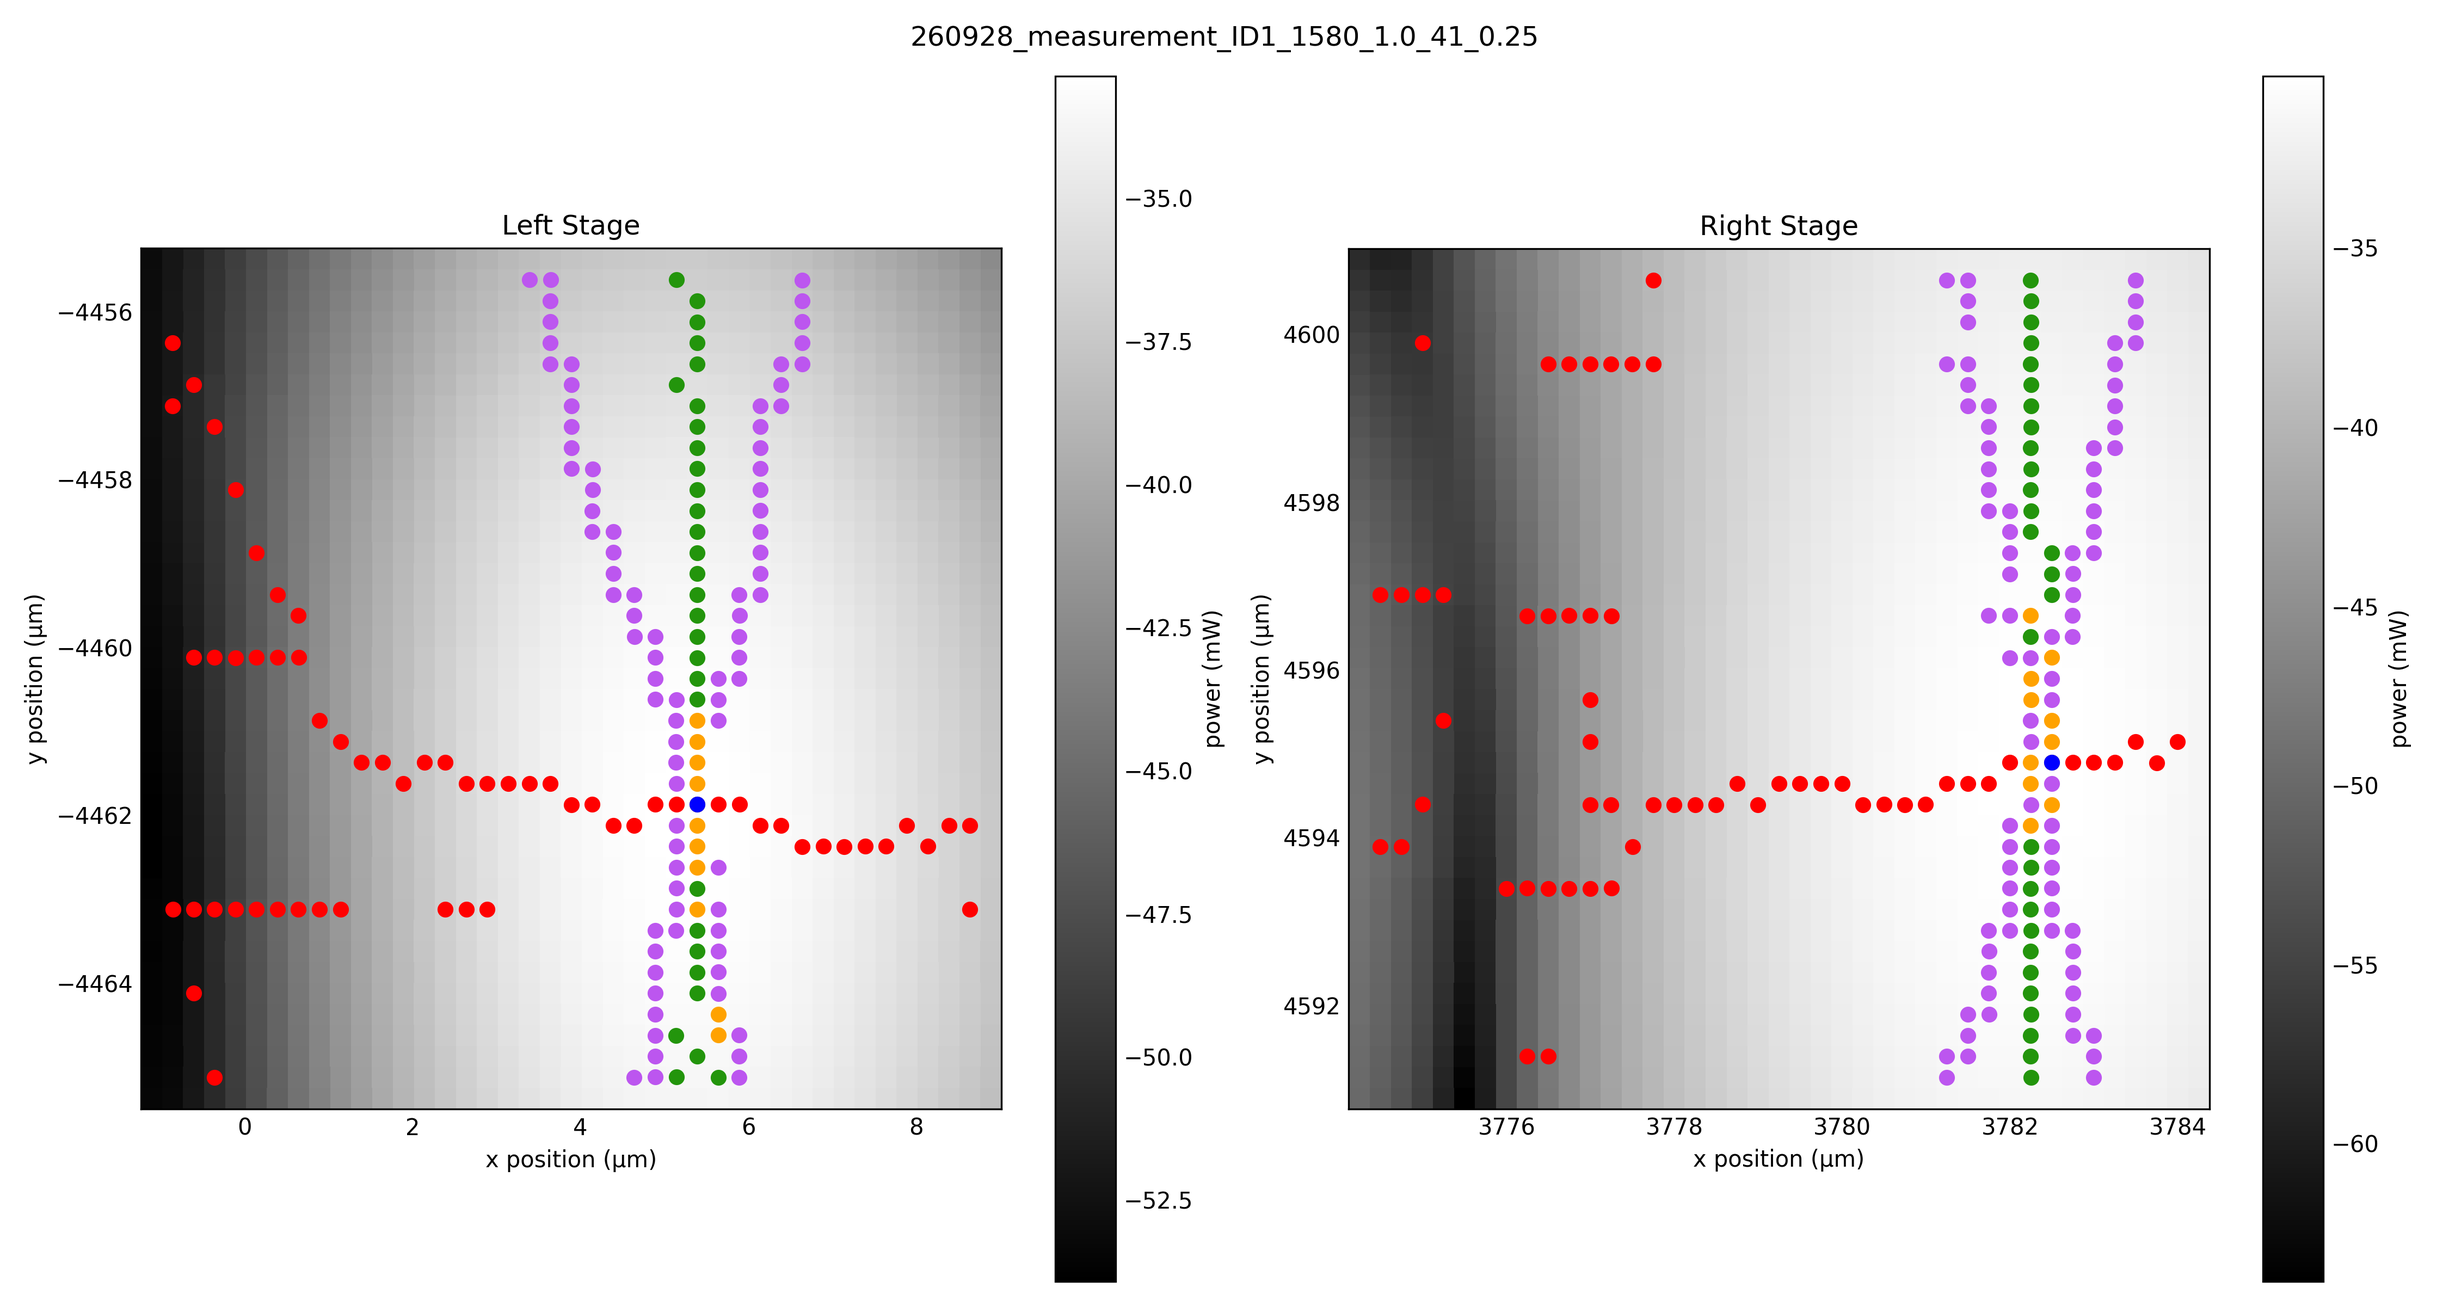
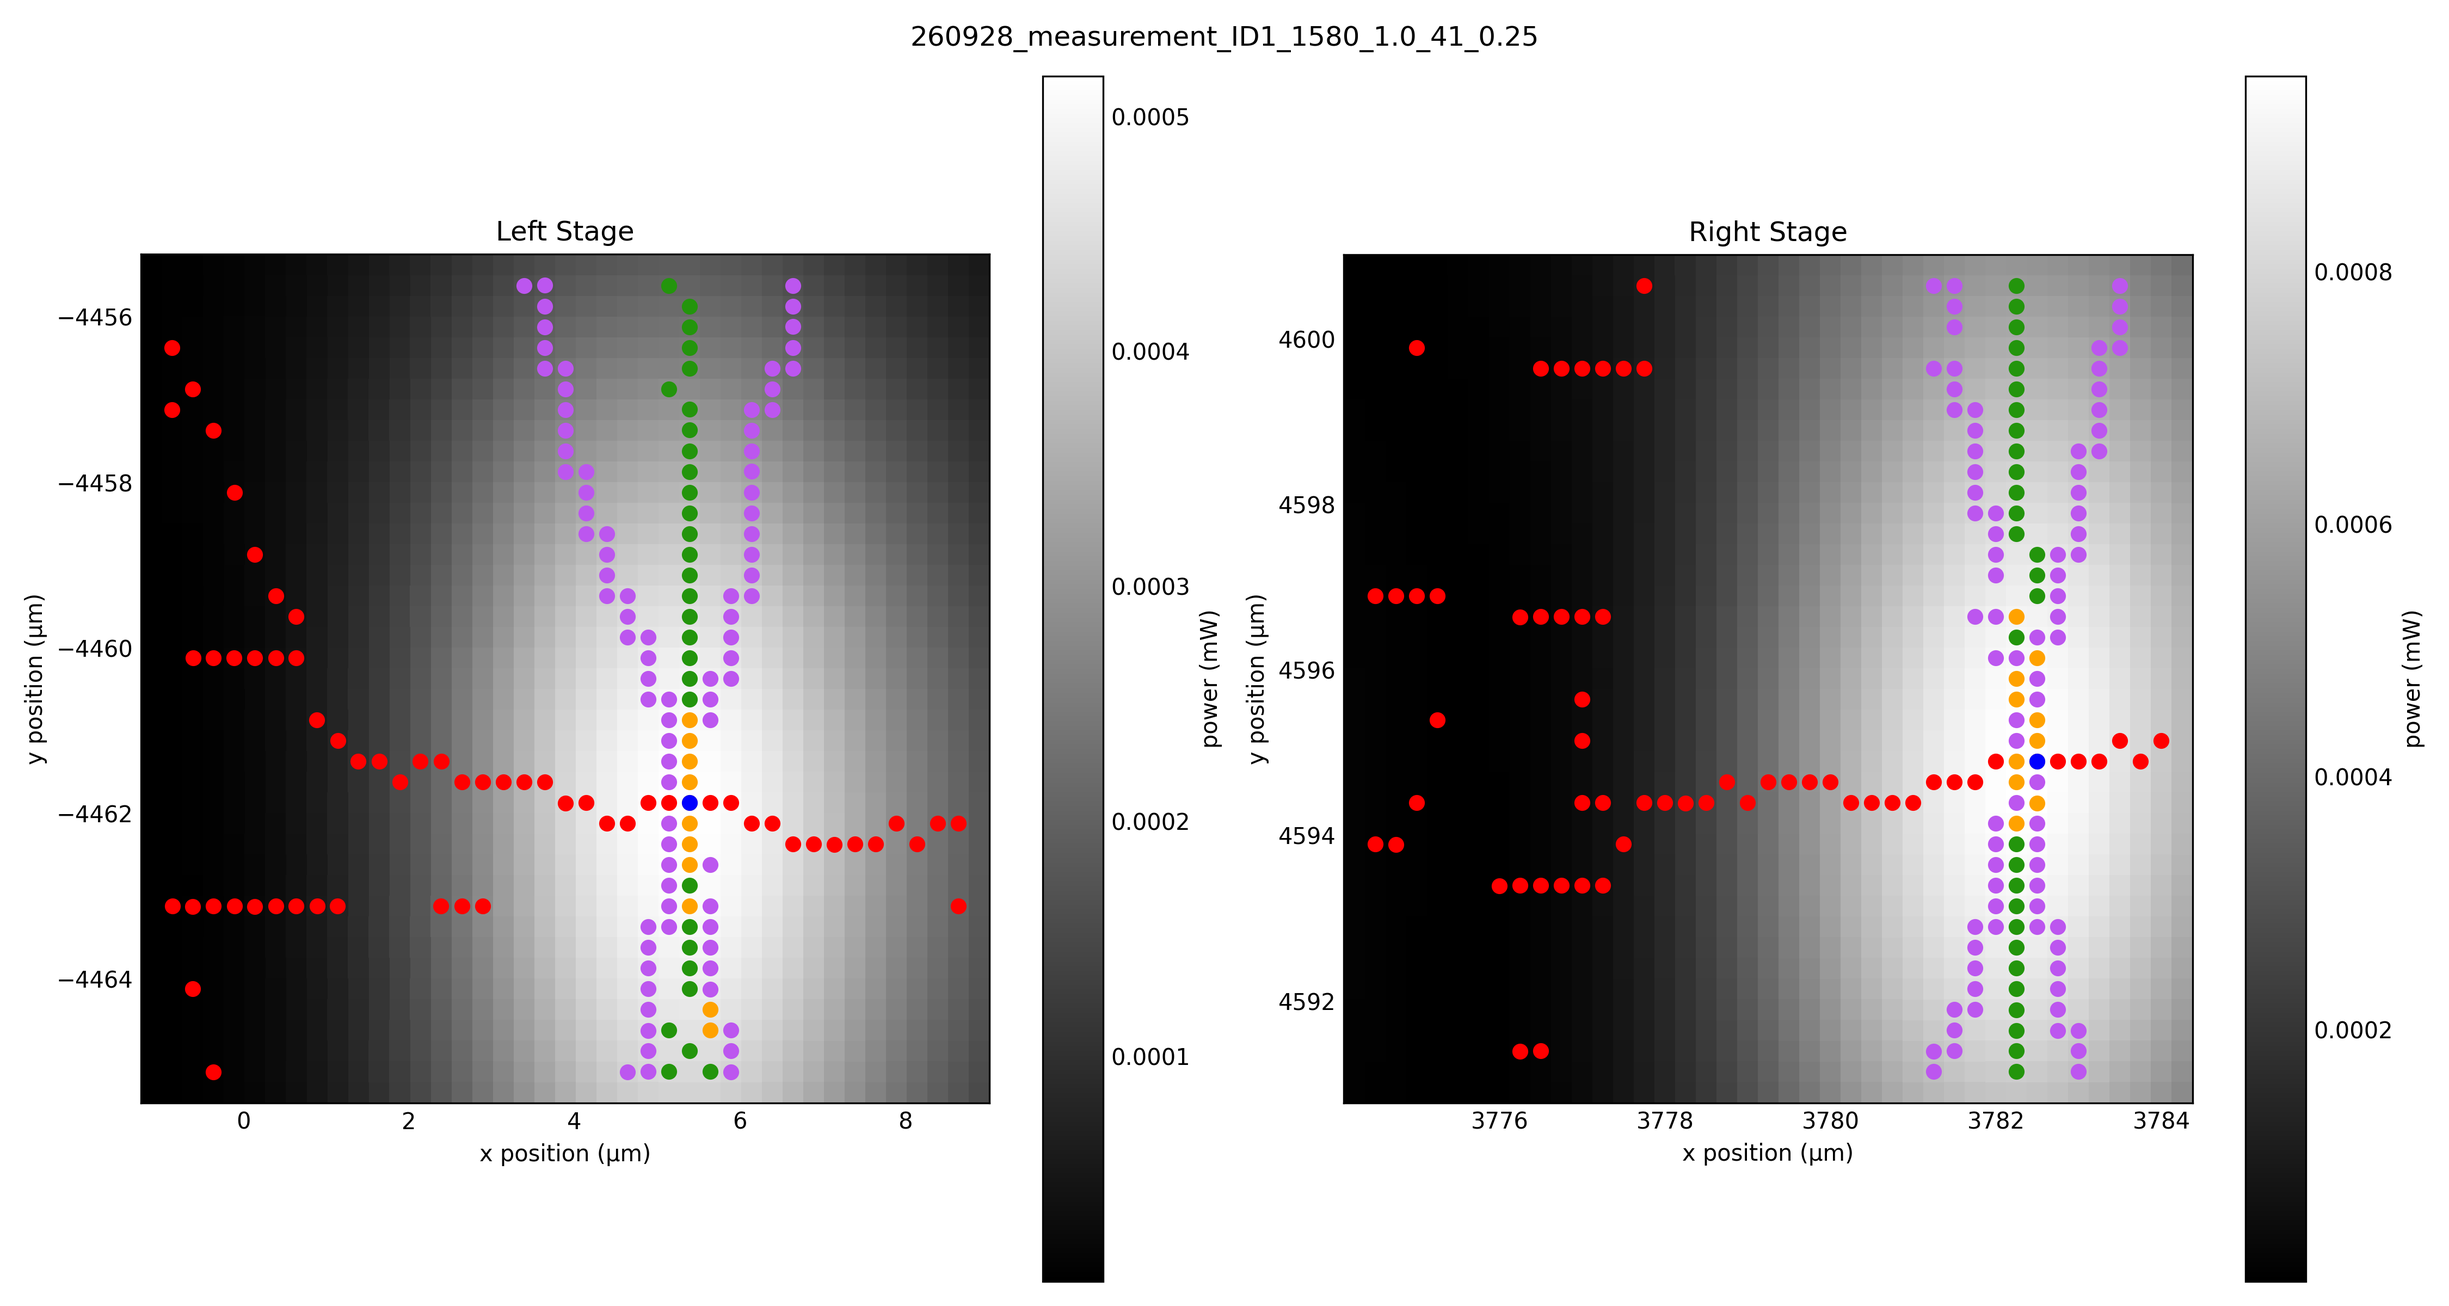
code readthrough and clean up readied for presentation

diff --git a/LabExT/Dev_Linus/_2_int_graphical_data_interpretation.py b/LabExT/Dev_Linus/_2_int_graphical_data_interpretation.py
@@ -1,4 +1,3 @@
-import time
 import csv
 import re
 
@@ -6,90 +5,47 @@ import matplotlib.pyplot as plt
 import numpy as np
 from pathlib import Path
 
-def data_preparation(number_of_points, used_array):
+def csv_to_arrays(file_name):
+    program_folder = Path(__file__).resolve().parent
+
+    parameter_list = []
+    left_list = []
+    right_list = []
+
+    csv_file = program_folder / f'{file_name}.csv'
+
+    with open(csv_file, newline='') as csvfile:
+        data = list(csv.reader(csvfile, delimiter=','))
+        for i in range(len(data)):
+            if i <= 1:
+                parameter_list.append(data[i])
+            elif data[i][0]== 'left':
+                left_list.append([float(v) for v in data[i][1:]])
+            else:
+                right_list.append([float(v) for v in data[i][1:]])
+
+    left_array = np.asarray(left_list, dtype=np.float32)
+    right_array = np.asarray(right_list, dtype=np.float32)
+
+    match = re.search(r'grid dimension:(\d+)', parameter_list[0][2])
+    N = int(match.group(1))
+
+    XL,YL,ZL = csv_to_arrays_helper(left_array, N)
+    XR,YR,ZR = csv_to_arrays_helper(right_array, N)
+    
+
+    return N, XL, YL, ZL, XR, YR, ZR
+
+def csv_to_arrays_helper(used_array, number_of_points):
     X = used_array[:, 0].reshape(number_of_points,number_of_points)
     Y = used_array[:, 1].reshape(number_of_points,number_of_points)
     Z = used_array[:, 2].reshape(number_of_points,number_of_points)
-    Z = 10 ** (Z / 10)
+    Z = 10**(Z / 10) # dBm -> mW
 
     return X,Y,Z
 
-def plot_data(number_of_points,first_array,second_array, tol, slice_along=None, slice_idx=None):
-    plt.style.use('_mpl-gallery')
-
-    XL,YL,ZL = data_preparation(number_of_points, first_array)
-    XR,YR,ZR = data_preparation(number_of_points, second_array)
-    
-    # Plot the surface
-    fig, (ax_left, ax_right) = plt.subplots(1, 2, subplot_kw={"projection": "3d"}, figsize=(15, 8))
-
-    ax_left.plot_surface(XL,YL,ZL,cmap="Oranges",alpha=0.6)
-    ax_right.plot_surface(XR,YR,ZR,cmap="Oranges",alpha=0.6)
-
-    
-    ax_left.set_xlabel('x position (µm)')
-    ax_left.set_ylabel('y position (µm)')
-    ax_left.set_zlabel('power (mW)')
-    ax_left.set_title('Left Stage')
-
-    ax_right.set_xlabel('x position (µm)')
-    ax_right.set_ylabel('y position (µm)')
-    ax_right.set_zlabel('power (mW)')
-    ax_right.set_title('Right Stage')
-
-    ridge_and_max(XL,YL,ZL,number_of_points,ax_left,'3D', tol)
-    ridge_and_max(XR,YR,ZR,number_of_points,ax_right,'3D', tol)
-
-    #if slice_along is not None and slice_idx is not None:
-    #    add_slice_plane(ax_left, XL, YL, ZL, slice_along, slice_idx)
-    #    add_slice_plane(ax_right, XR, YR, ZR, slice_along, slice_idx)
-
-    fig.suptitle(f"{file_name}")
-
-    plt.show()
-
-def plot_data_heatmap(number_of_points, first_array, second_array, file_name, program_folder, data_showing, tol):
-    plt.style.use('_mpl-gallery')
-
-    XL,YL,ZL = data_preparation(number_of_points, first_array)
-    XR,YR,ZR = data_preparation(number_of_points, second_array)
-    
-    # Plot the surface
-    fig, (ax_left, ax_right) = plt.subplots(1, 2, figsize=(15, 8))
-
-
-    mesh_left = ax_left.pcolormesh(XL,YL,ZL,cmap="grey", shading='auto')
-    mesh_right = ax_right.pcolormesh(XR,YR,ZR,cmap="grey", shading='auto')
-
-    
-    ax_left.set_xlabel('x position (µm)')
-    ax_left.set_ylabel('y position (µm)')
-    ax_left.set_title('Left Stage')
-    ax_left.set_aspect('equal')
-    fig.colorbar(mesh_left, ax=ax_left, label='power (mW)')
-
-    ax_right.set_xlabel('x position (µm)')
-    ax_right.set_ylabel('y position (µm)')
-    ax_right.set_title('Right Stage')
-    ax_right.set_aspect('equal')
-    fig.colorbar(mesh_right, ax=ax_right, label='power (mW)')
-
-    fig.suptitle(f"{file_name}")
-
-    plt.tight_layout()
-
-    ridge_and_max(XL,YL,ZL,number_of_points,ax_left,'2D', tol)
-    ridge_and_max(XR,YR,ZR,number_of_points,ax_right,'2D', tol)
-
-    if data_showing == 0:
-        fig.savefig(program_folder / 'Ridge_analysis' / f'{file_name}.png', dpi=300)
-
-    else:
-        plt.show()
-
 def ridge_and_max(X, Y, used_array, N, axes, dim, tol):
-    maximum = -100
-    max_coord = [X[N//2][N//2],Y[N//2][N//2],used_array[N//2][N//2]]
+    max_coord_and_max = [X[N//2][N//2],Y[N//2][N//2],used_array[N//2][N//2]]
     offset = 0.00001
     tolerance = tol
 
@@ -123,45 +79,72 @@ def ridge_and_max(X, Y, used_array, N, axes, dim, tol):
                     axes.scatter(X[i][j],Y[i][j],c=color)
 
     i_max, j_max = np.unravel_index(np.argmax(used_array), used_array.shape)
-    max_coord = [X[i_max][j_max], Y[i_max][j_max], used_array[i_max][j_max]]
+    max_coord_and_max = [X[i_max][j_max], Y[i_max][j_max], used_array[i_max][j_max]]
 
     if dim=='3D':
-        axes.scatter(max_coord[0],max_coord[1],max_coord[2]+offset,c='blue')
+        axes.scatter(max_coord_and_max[0],max_coord_and_max[1],max_coord_and_max[2]+offset,c='blue')
     else:
-        axes.scatter(max_coord[0],max_coord[1],c='blue')
+        axes.scatter(max_coord_and_max[0],max_coord_and_max[1],c='blue')
 
-def interpretation_script(file_name, program_folder, data_showing, tol,slice_along='y', slice_idx=10):
-    #readout data
-    #file_name = '260925_measurement_1580_1.0_31_0.5'
+def plot_data(number_of_points, XL, YL, ZL, XR, YR, ZR, file_name, tol):
+    plt.style.use('_mpl-gallery')
+    
+    # Plot the surface
+    fig, (ax_left, ax_right) = plt.subplots(1, 2, subplot_kw={"projection": "3d"}, figsize=(15, 8))
 
-    parameter_list = []
-    left_list = []
-    right_list = []
+    ax_left.plot_surface(XL,YL,ZL,cmap="Oranges",alpha=0.6)
+    ax_right.plot_surface(XR,YR,ZR,cmap="Oranges",alpha=0.6)
+    
+    ax_left.set_xlabel('x position (µm)')
+    ax_left.set_ylabel('y position (µm)')
+    ax_left.set_zlabel('power (mW)')
+    ax_left.set_title('Left Stage')
 
-    csv_file = program_folder / f'{file_name}.csv'
+    ax_right.set_xlabel('x position (µm)')
+    ax_right.set_ylabel('y position (µm)')
+    ax_right.set_zlabel('power (mW)')
+    ax_right.set_title('Right Stage')
 
-    with open(csv_file, newline='') as csvfile:
-        data = list(csv.reader(csvfile, delimiter=','))
-        for i in range(len(data)):
-            if i <= 1:
-                parameter_list.append(data[i])
-            elif data[i][0]== 'left':
-                left_list.append([float(v) for v in data[i][1:]])
-            else:
-                right_list.append([float(v) for v in data[i][1:]])
+    ridge_and_max(XL,YL,ZL,number_of_points,ax_left,'3D', tol)
+    ridge_and_max(XR,YR,ZR,number_of_points,ax_right,'3D', tol)
 
-    left_array = np.asarray(left_list, dtype=np.float32)
-    right_array = np.asarray(right_list, dtype=np.float32)
+    fig.suptitle(f"{file_name}")
 
-    match = re.search(r'grid dimension:(\d+)', parameter_list[0][2])
-    N = int(match.group(1))
+    plt.show()
 
-    #plot data
-    if data_showing == 1:
-        plot_data(N, left_array, right_array, tol,slice_along='y', slice_idx=10)
-        plot_data_heatmap(N, left_array, right_array,file_name,program_folder,data_showing, tol)
+def plot_data_heatmap(number_of_points, XL, YL, ZL, XR, YR, ZR, file_name, program_folder, data_showing, tol):
+    plt.style.use('_mpl-gallery')
+
+    # Plot the surface
+    fig, (ax_left, ax_right) = plt.subplots(1, 2, figsize=(15, 8))
+
+    mesh_left = ax_left.pcolormesh(XL,YL,ZL,cmap="grey", shading='auto')
+    mesh_right = ax_right.pcolormesh(XR,YR,ZR,cmap="grey", shading='auto')
+    
+    ax_left.set_xlabel('x position (µm)')
+    ax_left.set_ylabel('y position (µm)')
+    ax_left.set_title('Left Stage')
+    ax_left.set_aspect('equal')
+    fig.colorbar(mesh_left, ax=ax_left, label='power (mW)')
+
+    ax_right.set_xlabel('x position (µm)')
+    ax_right.set_ylabel('y position (µm)')
+    ax_right.set_title('Right Stage')
+    ax_right.set_aspect('equal')
+    fig.colorbar(mesh_right, ax=ax_right, label='power (mW)')
+
+    fig.suptitle(f"{file_name}")
+
+    plt.tight_layout()
+
+    ridge_and_max(XL,YL,ZL,number_of_points,ax_left,'2D', tol)
+    ridge_and_max(XR,YR,ZR,number_of_points,ax_right,'2D', tol)
+
+    if data_showing == 0:
+        fig.savefig(program_folder / 'Ridge_analysis' / f'{file_name}.png', dpi=300)
+        plt.close(fig)
     else:
-        plot_data_heatmap(N, left_array, right_array,file_name,program_folder,data_showing, tol)
+        plt.show()
 
 def find_matching_files(folder, id_string):
     """Return the filename stems (no .csv extension) of every CSV in
@@ -172,33 +155,19 @@ def ridge_analysis_png_script(program_folder, id_string, tol):
     name_list = find_matching_files(program_folder,id_string)
 
     for name in name_list:
-        interpretation_script(name, program_folder,0, tol)
+        script(name, program_folder,0, tol)
 
-def add_slice_plane(axes, X, Y, Z, slice_along, idx, color='cyan', alpha=0.3):
-    """
-    Draw a vertical reference plane through the 3D surface at one slice,
-    so the chosen x-slice or y-slice can be compared visually against the
-    full surface.
+def script(file_name, program_folder, data_showing, tol, id_name = None):
+    N, XL, YL, ZL, XR, YR, ZR = csv_to_arrays(file_name)
 
-    slice_along='x': plane at fixed column idx (constant y, x and z vary)
-    slice_along='y': plane at fixed row idx (constant x, y and z vary)
-    """
-    zmin, zmax = np.nanmin(Z), np.nanmax(Z)
-
-    if slice_along == 'x':
-        # fixed y = Y[0, idx]; plane spans the full x-range and full z-range
-        x_vals = X[:, idx]
-        y_fixed = Y[0, idx]
-        plane_x, plane_z = np.meshgrid(x_vals, np.linspace(zmin, zmax, 2))
-        plane_y = np.full_like(plane_x, y_fixed)
+    #plot data
+    if data_showing == 1:
+        plot_data(N, XL, YL, ZL, XR, YR, ZR, file_name, tol)
+        plot_data_heatmap(N, XL, YL, ZL, XR, YR, ZR,file_name,program_folder,data_showing, tol)
+    elif data_showing == 0:
+        plot_data_heatmap(N, XL, YL, ZL, XR, YR, ZR,file_name,program_folder,data_showing, tol)
     else:
-        # fixed x = X[idx, 0]; plane spans the full y-range and full z-range
-        y_vals = Y[idx, :]
-        x_fixed = X[idx, 0]
-        plane_y, plane_z = np.meshgrid(y_vals, np.linspace(zmin, zmax, 2))
-        plane_x = np.full_like(plane_y, x_fixed)
-
-    axes.plot_surface(plane_x, plane_y, plane_z, color=color, alpha=alpha, shade=False)
+        ridge_analysis_png_script(program_folder, id_name, tol)
 
 program_folder = Path(__file__).resolve().parent
 
@@ -206,5 +175,9 @@ file_name = '260928_measurement_ID1_1580_1.0_41_0.25'
 id_name = 'ID7'
 ridge_tolerance = 0
 
-#ridge_analysis_png_script(program_folder, id_name, ridge_tolerance)
-interpretation_script(file_name, program_folder,1, ridge_tolerance, slice_along='y', slice_idx=10)
+#0 for recording of single measurement heatmap with "file_name"
+#1 for displaying of data with "file_name" in 3D and as a heatmap
+#2 for recording of  measurement heatmap of all data with "id_name" 
+display_data = 1
+
+script(file_name, program_folder, display_data, ridge_tolerance, id_name)

diff --git a/LabExT/Dev_Linus/_2_int_analytical_data_interpretation.py b/LabExT/Dev_Linus/_2_int_analytical_data_interpretation.py
@@ -89,29 +89,6 @@ def find_min_r_squared(X, Y, Z, center_idx, rad, slice_along):
 
     return min_r, min_idx, n_failed
 
-def r_squared_grid(XL, YL, ZL, XR, YR, ZR, radius):
-    for label, X, Y, Z in [('left', XL, YL, ZL), ('right', XR, YR, ZR)]:
-        i_max, j_max = np.unravel_index(np.argmax(Z), Z.shape)
-
-        px, pz = x_slice(X, Y, Z, j_max)
-        py, pzy = y_slice(X, Y, Z, i_max)
-        print(f"[{label}] peak-slice R²: x-dir={r_squared_single_dim(px, pz)}, "
-              f"y-dir={r_squared_single_dim(py, pzy)}")
-
-        min_r_x, idx_x, fail_x = find_min_r_squared(X, Y, Z, i_max, radius, slice_along='x')
-        min_r_y, idx_y, fail_y = find_min_r_squared(X, Y, Z, j_max, radius, slice_along='y')
-
-        print(f"[{label}] min R²: x-dir={min_r_x} (col {idx_x}, {fail_x} failed), "
-              f"y-dir={min_r_y} (row {idx_y}, {fail_y} failed)")
-
-        if idx_x is not None:
-            coords, z = x_slice(X, Y, Z, idx_x)
-            plot_slice_with_fit(coords, z, title=f"{label.title()} stage, worst x-slice (col {idx_x})")
-
-        if idx_y is not None:
-            coords, z = y_slice(X, Y, Z, idx_y)
-            plot_slice_with_fit(coords, z, title=f"{label.title()} stage, worst y-slice (row {idx_y})")     
-
 def plot_slice_with_fit(coord_values, z_values, title="Slice"):
     p0 = [max(z_values), np.mean(coord_values), np.std(coord_values)]
     try:
@@ -136,6 +113,32 @@ def plot_slice_with_fit(coord_values, z_values, title="Slice"):
     plt.legend()
     plt.tight_layout()
     plt.show()
+
+def r_squared_grid(XL, YL, ZL, XR, YR, ZR, radius):
+    for label, X, Y, Z in [('left', XL, YL, ZL), ('right', XR, YR, ZR)]:
+        i_max, j_max = np.unravel_index(np.argmax(Z), Z.shape)
+
+        #gets slices in of x and y at maximum indices
+        px, pz = x_slice(X, Y, Z, j_max)
+        py, pzy = y_slice(X, Y, Z, i_max)
+
+        print(f"[{label}] peak-slice R²: x-dir={r_squared_single_dim(px, pz)}, "
+              f"y-dir={r_squared_single_dim(py, pzy)}")
+
+        min_r_x, idx_x, fail_x = find_min_r_squared(X, Y, Z, i_max, radius, slice_along='x')
+        min_r_y, idx_y, fail_y = find_min_r_squared(X, Y, Z, j_max, radius, slice_along='y')
+
+        print(f"[{label}] min R²: x-dir={min_r_x} (col {idx_x}, {fail_x} failed), "
+              f"y-dir={min_r_y} (row {idx_y}, {fail_y} failed)")
+
+        if idx_x is not None:
+            coords, z = x_slice(X, Y, Z, idx_x)
+            plot_slice_with_fit(coords, z, title=f"{label.title()} stage, worst x-slice (col {idx_x})")
+
+        if idx_y is not None:
+            coords, z = y_slice(X, Y, Z, idx_y)
+            plot_slice_with_fit(coords, z, title=f"{label.title()} stage, worst y-slice (row {idx_y})")     
+
 
 file_name = '260928_measurement_ID1_1580_1.0_41_0.25'
 

diff --git a/LabExT/Dev_Linus/_3_alg_algorithm_research.py b/LabExT/Dev_Linus/_3_alg_algorithm_research.py
@@ -387,7 +387,7 @@ def bayesian_search(measure_fn, start_coordinates, search_radius,
 
 # --------------------------------------------------------------------------- Grid Search Metric
 
-def grid_search(Zfunction, start, radius):
+def grid_search(Zfunction, start):
     maxval = -np.inf
     maxcoords = list(start)
 
@@ -665,15 +665,12 @@ def run_all_methods(Zfunction, X, Y, Z, side_label, n_bo_seeds=5):
                 "best_power": power, "n_samples": info["n_samples"],
             })
     
-
-    
-    coords, power, info = grid_search(Zfunction, start, radius)
+    coords, power, info = grid_search(Zfunction, start)
     rows.append({
                 "side": side_label, "method": "grid_search",
                 "seed": None, "best_x": coords[0], "best_y": coords[1],
                 "best_power": power, "n_samples": info["n_samples"],
             })
-
 
     for seed in range(n_bo_seeds):
         coords, power, info = bayesian_search(Zfunction, start, radius, n_iter=30, seed=seed)
